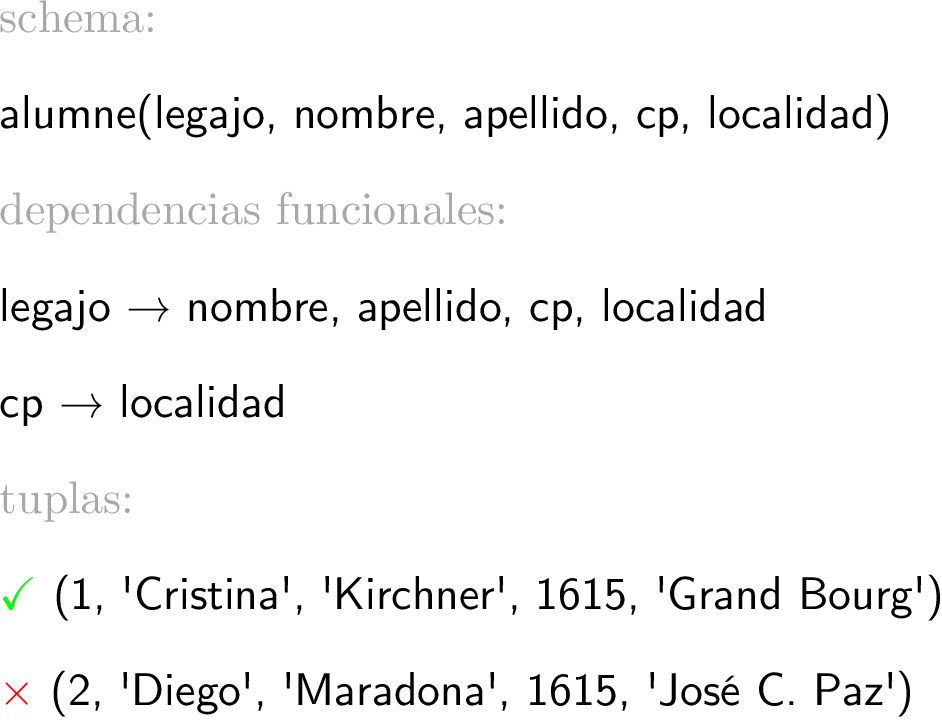
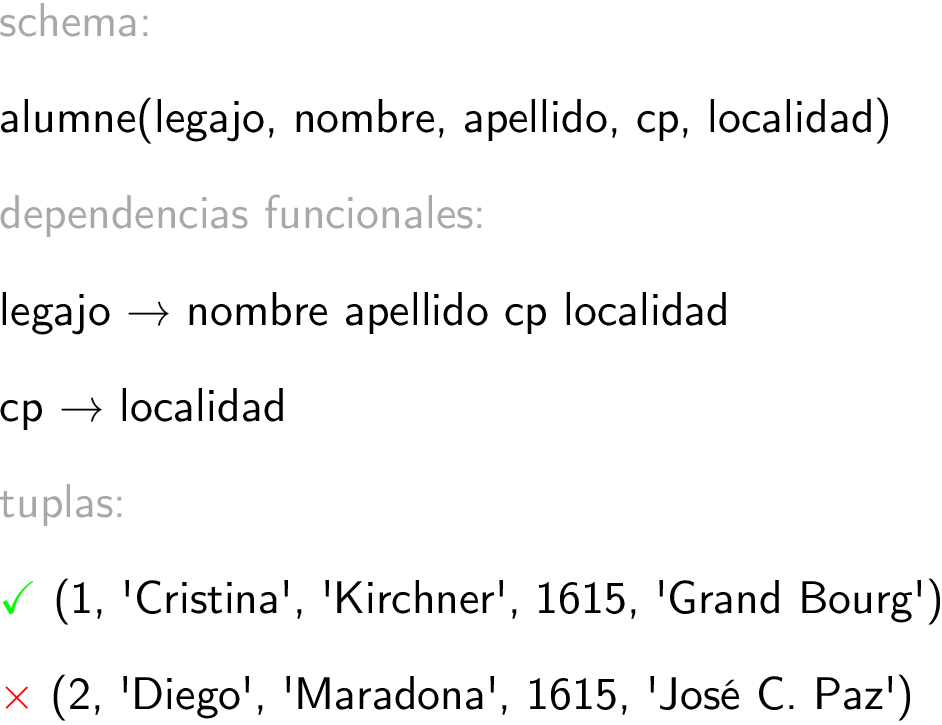
Fix dp com-1

diff --git a/present/com-1/tex/dp-definicion-ejemplo-2.tex b/present/com-1/tex/dp-definicion-ejemplo-2.tex
@@ -25,21 +25,26 @@
 %\showcolor[x11]
 %\showbodyfont[cmr]
 
-{\ss $R$ : relación
+{\ss
+\color[darkgray]{relación}
+R
+\color[darkgray]{:}
 
-$A,\ B,\ C,\ \ldots$ : atributos de $R$
+cursada(alumne_legajo, alumne_nombre, materia, f_inscripción, f_examen, nota)
 
-$X,\ Y,\ Z$ : conjuntos de atributos de $R$
+\color[darkgray]{conjunto de dependencias funcionales}
+F
+\color[darkgray]{:}
 
-$R(A, B, C)$ : schema
+alumne_legajo → alumne_nombre
 
-$r$ : instancia de $R$
+alumne_legajo materia → f_inscripción
 
-$t_{1},\ t_{2},\ t_{3},\ \ldots$ : tuplas de $r$ 
+alumne_legajo materia f_examen → nota
 
-$f$ : dependencia funcional
+\color[darkgray]{es una dependencia funcional?}
 
-$F$ : conjunto de dependencias funcionales
+\color[red]{$\times$} alumne_legajo materia → f_examen
 }
 
 \stoptext

diff --git a/present/com-1/tex/dp-definicion-ejemplo-1.tex b/present/com-1/tex/dp-definicion-ejemplo-1.tex
@@ -25,20 +25,24 @@
 %\showcolor[x11]
 %\showbodyfont[cmr]
 
+{\ss
+
 \color[darkgray]{schema:}
 
-{\ss alumne(legajo, nombre, apellido, cp, localidad)}
+alumne(legajo, nombre, apellido, cp, localidad)
 
 \color[darkgray]{dependencias funcionales:}
 
-{\ss legajo → nombre, apellido, cp, localidad}
+legajo → nombre apellido cp localidad
 
-{\ss cp → localidad}
+cp → localidad
 
 \color[darkgray]{tuplas:}
 
-\color[green]{$\checkmark$} {\ss (1, 'Cristina', 'Kirchner', 1615, 'Grand Bourg')}
+\color[green]{$\checkmark$} (1, 'Cristina', 'Kirchner', 1615, 'Grand Bourg')
 
-\color[red]{$\times$} {\ss (2, 'Diego', 'Maradona', 1615, 'José C. Paz')}
+\color[red]{$\times$} (2, 'Diego', 'Maradona', 1615, 'José C. Paz')
+
+}
 
 \stoptext

diff --git a/present/com-1/tex/dp-definicion.tex b/present/com-1/tex/dp-definicion.tex
@@ -2,6 +2,6 @@
 \documentclass[preview]{standalone}
 
 \begin{document}
-$X \rightarrow Y$ es DF de $R \iff (\forall r)$ $t_{1}(X) = t_{2}(X)  \Rightarrow t_{1}(Y) = t_{2}(Y)$
+\textsf{$X \rightarrow Y$ es DF de $R \iff (\forall r)$ $t_{1}(X) = t_{2}(X)  \Rightarrow t_{1}(Y) = t_{2}(Y)$}
 \end{document}
 

diff --git a/present/com-1/tex/dp-inferencia.tex b/present/com-1/tex/dp-inferencia.tex
@@ -1,0 +1,6 @@
+\pdfoutput=1
+\documentclass[preview]{standalone}
+
+\begin{document}
+\textsf{$F \models f \iff (\forall r)$  $r$ satisface $F \Rightarrow r$ satisface $f$}
+\end{document}
